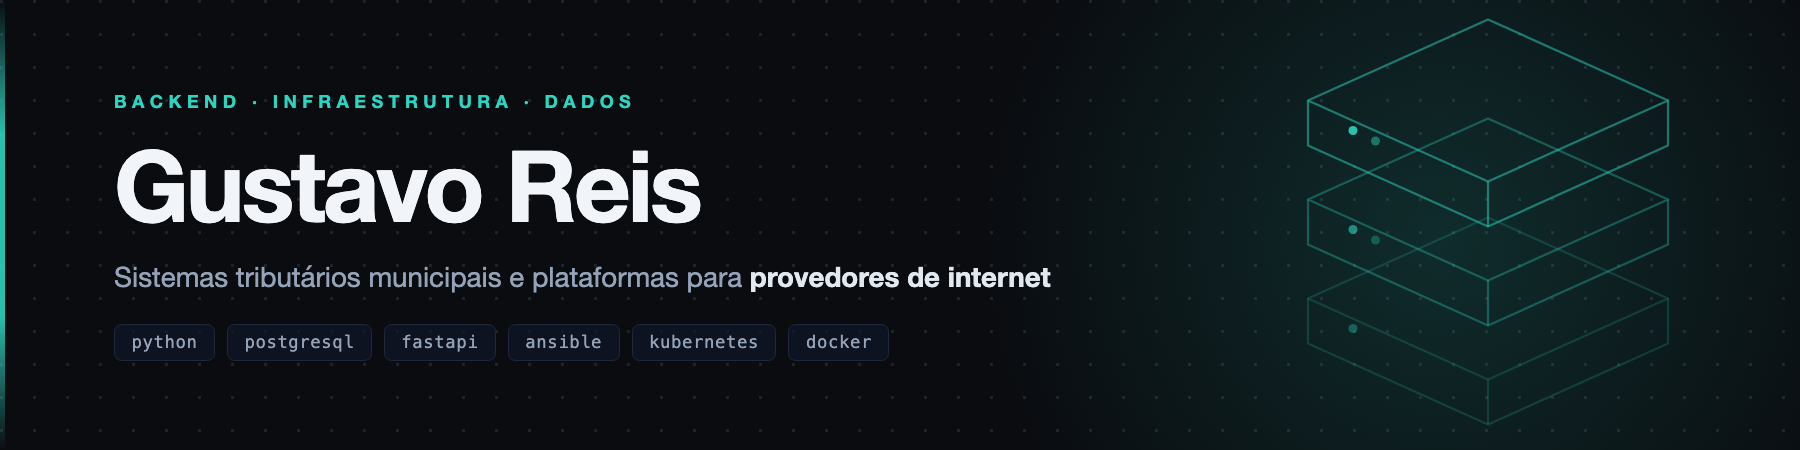
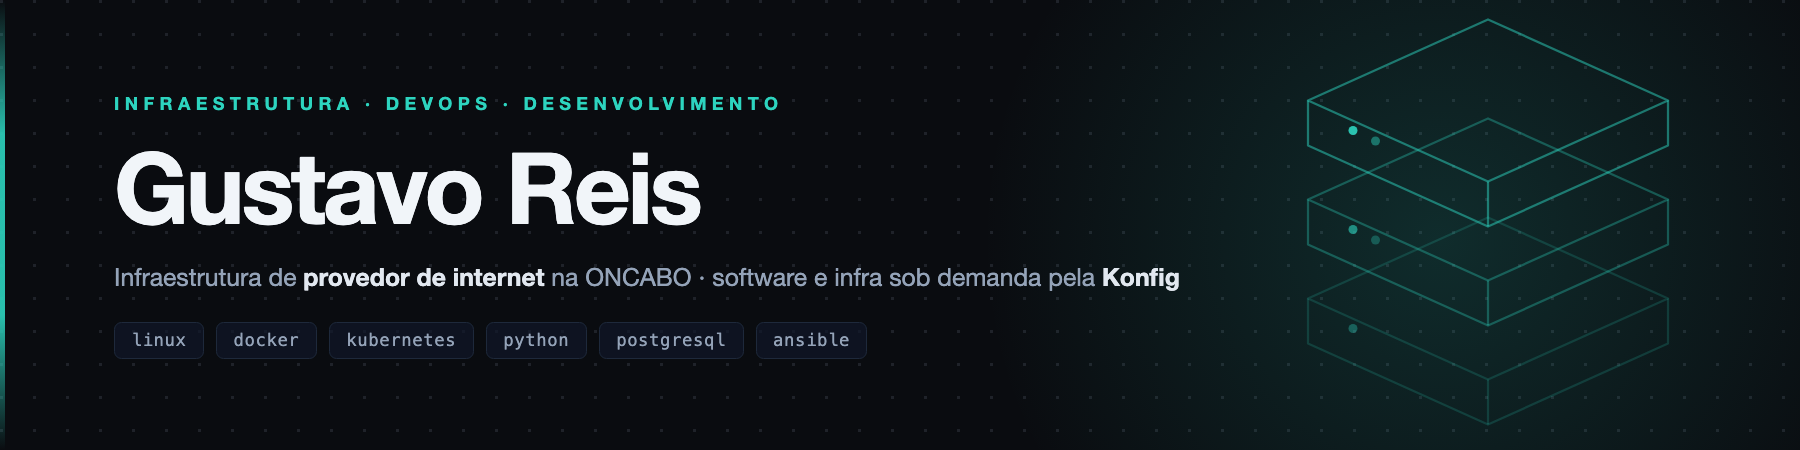
feat(profile): reposiciona o perfil em infraestrutura e desenvolvimento
Remove toda referência a sistemas tributários municipais do README, do
banner e do alt das imagens. O posicionamento passa a ser a operação de
infraestrutura de provedor na ONCABO e a prestação de serviço em infra e
software pela Konfig.

- banner: novo kicker (Infraestrutura · DevOps · Desenvolvimento), nova
  linha de papel e chips reordenados com infra na frente
- card de stack: infraestrutura, redes e bancos passam para a primeira
  coluna, que é a que se lê primeiro; linguagens e frameworks vão para a
  segunda
- README: seção "Atuação" separando infra, redes/telecom, desenvolvimento
  e IA aplicada
- adiciona cabeçalho animado (readme-typing-svg) na paleta do banner
- adiciona workflow da animação de contribuições (Platane/snk) publicando
  no branch output, com paleta alinhada ao banner

Claude-Session: https://claude.ai/code/session_015sPbKKPSyLFDWbtpW1hUQz

diff --git a/assets/banner.html b/assets/banner.html
@@ -17,7 +17,7 @@
   .content { position:absolute; left:76px; top:0; height:300px; display:flex; flex-direction:column; justify-content:center; z-index:3; }
   .kicker { font-size:12px; letter-spacing:3.6px; text-transform:uppercase; color:#2dd4bf; font-weight:600; margin-bottom:15px; }
   h1 { font-size:66px; font-weight:700; letter-spacing:-2.2px; line-height:1; }
-  .role { margin-top:17px; font-size:18.5px; color:#94a3b8; font-weight:400; }
+  .role { margin-top:17px; font-size:16.5px; color:#94a3b8; font-weight:400; }
   .role span { color:#e2e8f0; font-weight:600; }
   .stack { margin-top:20px; display:flex; gap:8px; }
   .chip { font-family:"SF Mono",Menlo,monospace; font-size:11.5px; color:#94a3b8;
@@ -54,11 +54,11 @@
     </g>
   </svg>
   <div class="content">
-    <div class="kicker">Backend · Infraestrutura · Dados</div>
+    <div class="kicker">Infraestrutura · DevOps · Desenvolvimento</div>
     <h1>Gustavo Reis</h1>
-    <div class="role">Sistemas tributários municipais e plataformas para <span>provedores de internet</span></div>
+    <div class="role">Infraestrutura de <span>provedor de internet</span> na ONCABO · software e infra sob demanda pela <span>Konfig</span></div>
     <div class="stack">
-      <span class="chip">python</span><span class="chip">postgresql</span><span class="chip">fastapi</span><span class="chip">ansible</span><span class="chip">kubernetes</span><span class="chip">docker</span>
+      <span class="chip">linux</span><span class="chip">docker</span><span class="chip">kubernetes</span><span class="chip">python</span><span class="chip">postgresql</span><span class="chip">ansible</span>
     </div>
   </div>
 </div>

diff --git a/assets/gen_stack.py b/assets/gen_stack.py
@@ -8,6 +8,27 @@ OUT = pathlib.Path(__file__).parent / "stack.html"
 # (slug, rótulo). slug None = sem logo, vira chip só de texto.
 COLS = [
     [
+        ("Infraestrutura", [
+            ("linux", "Linux"), ("debian", "Debian"), ("docker", "Docker"),
+            ("kubernetes", "Kubernetes"), ("rancher", "Rancher"), ("ansible", "Ansible"),
+            ("proxmox", "Proxmox"), ("vmware", "VMware"), ("nginx", "Nginx"),
+            ("traefikproxy", "Traefik"), ("cloudflare", "Cloudflare"), ("apachetomcat", "Tomcat"),
+        ]),
+        ("Redes, segurança e observabilidade", [
+            ("asterisk", "Asterisk"), ("pfsense", "pfSense"), ("mikrotik", "Mikrotik"),
+            ("wireguard", "WireGuard"), ("openvpn", "OpenVPN"), ("grafana", "Grafana"),
+            ("prometheus", "Prometheus"), ("sentry", "Sentry"),
+        ]),
+        ("Bancos de dados", [
+            ("postgresql", "PostgreSQL"), ("mysql", "MySQL"), ("mongodb", "MongoDB"),
+            ("redis", "Redis"), ("clickhouse", "ClickHouse"), ("sqlite", "SQLite"),
+        ]),
+        ("Ferramentas", [
+            ("git", "Git"), ("githubactions", "Actions"), ("precommit", "pre-commit"),
+            ("pytest", "pytest"), ("vitest", "Vitest"), ("postman", "Postman"),
+        ]),
+    ],
+    [
         ("Linguagens", [
             ("python", "Python"), ("typescript", "TypeScript"), ("javascript", "JavaScript"),
             ("csharp", "C#"), ("php", "PHP"), ("gnubash", "Bash"),
@@ -24,27 +45,6 @@ COLS = [
             ("tailwindcss", "Tailwind"), ("shadcnui", "shadcn/ui"), ("mui", "MUI"),
             ("reactquery", "TanStack"), ("reacthookform", "Hook Form"), ("zod", "Zod"),
             ("streamlit", "Streamlit"),
-        ]),
-    ],
-    [
-        ("Bancos de dados", [
-            ("postgresql", "PostgreSQL"), ("mysql", "MySQL"), ("mongodb", "MongoDB"),
-            ("redis", "Redis"), ("clickhouse", "ClickHouse"), ("sqlite", "SQLite"),
-        ]),
-        ("Infraestrutura", [
-            ("linux", "Linux"), ("debian", "Debian"), ("docker", "Docker"),
-            ("kubernetes", "Kubernetes"), ("rancher", "Rancher"), ("ansible", "Ansible"),
-            ("proxmox", "Proxmox"), ("vmware", "VMware"), ("nginx", "Nginx"),
-            ("traefikproxy", "Traefik"), ("cloudflare", "Cloudflare"), ("apachetomcat", "Tomcat"),
-        ]),
-        ("Redes, segurança e observabilidade", [
-            ("asterisk", "Asterisk"), ("pfsense", "pfSense"), ("mikrotik", "Mikrotik"),
-            ("wireguard", "WireGuard"), ("openvpn", "OpenVPN"), ("grafana", "Grafana"),
-            ("prometheus", "Prometheus"), ("sentry", "Sentry"),
-        ]),
-        ("Ferramentas", [
-            ("git", "Git"), ("githubactions", "Actions"), ("precommit", "pre-commit"),
-            ("pytest", "pytest"), ("vitest", "Vitest"), ("postman", "Postman"),
         ]),
     ],
 ]

diff --git a/README.md b/README.md
@@ -1,19 +1,25 @@
-<img src="assets/banner.png" alt="Gustavo Reis — Backend, Infraestrutura e Dados. Sistemas tributários municipais e plataformas para provedores de internet.">
+<img src="assets/banner.png" alt="Gustavo Reis — Infraestrutura, DevOps e Desenvolvimento. Infraestrutura de provedor de internet na ONCABO e software e infra sob demanda pela Konfig.">
 
-Vim de operações de rede (NOC/ISP) e migrei pra desenvolvimento sem largar a infra — escrevo a aplicação, modelo o banco e opero o servidor onde ela roda. Experiência em arrecadação municipal (ISS, NFS-e, IPTU e imobiliário, ITBI, dívida ativa, parcelamento, Simples Nacional e PGDAS) e em plataformas para ISP — provisionamento e diagnóstico de rede, telefonia, cobrança e integração com ERP.
+<a href="https://linkedin.com/in/gustsr"><img src="https://readme-typing-svg.demolab.com?font=IBM+Plex+Mono&weight=500&size=19&duration=3500&pause=1200&color=2DD4BF&vCenter=true&width=820&height=40&lines=Supervisor+de+NOC+em+provedor+de+internet;Do+rack+ao+deploy%3A+a+infra%2C+o+c%C3%B3digo+e+o+servidor+onde+ele+roda;Linux+%C2%B7+Docker+%C2%B7+Kubernetes+%C2%B7+Python" alt="Supervisor de NOC em provedor de internet · Do rack ao deploy: a infra, o código e o servidor onde ele roda · Linux, Docker, Kubernetes, Python"></a>
 
-<img src="assets/stack.png" alt="Stack: Python, TypeScript, JavaScript, C#, PHP, Bash, Java, Swift. FastAPI, Flask, ASP.NET, Laravel, Spring, Node.js, Fastify, SQLAlchemy, Celery, RabbitMQ, Socket.IO. React, Next.js, Vite, Bun, Tailwind, shadcn/ui, MUI, TanStack, React Hook Form, Zod, Streamlit. PostgreSQL, MySQL, MongoDB, Redis, ClickHouse, SQLite. Linux, Debian, Docker, Kubernetes, Rancher, Ansible, Proxmox, VMware, Nginx, Traefik, Cloudflare, Tomcat. Asterisk, pfSense, Mikrotik, WireGuard, OpenVPN, Grafana, Prometheus, Sentry. Git, GitHub Actions, pre-commit, pytest, Vitest, Postman.">
+Opero infraestrutura e escrevo o software que roda em cima dela.
+
+Sou Supervisor de Suporte e NOC na **ONCABO**, provedor de internet, onde respondo pela operação da rede — GPON, roteamento, autenticação, telefonia e monitoramento — e pelos painéis que a equipe usa para operar. Pela **Konfig** presto serviço em infraestrutura e desenvolvimento: administro Linux, subo container e virtualização, publico aplicação do domínio ao deploy e escrevo a aplicação em si, do banco à API.
+
+### Atuação
+
+**Infraestrutura** — Linux em produção, Docker e Kubernetes, virtualização em Proxmox e VMware, Nginx e Traefik como proxy reverso, DNS, SSL e Cloudflare, observabilidade com Grafana, Prometheus e Zabbix.
+
+**Redes e telecom** — rede de provedor: GPON e OLT, PPPoE/IPoE, roteamento, TR-069/GenieACS, SIP e Asterisk, diagnóstico e troubleshooting.
+
+**Desenvolvimento** — Python e FastAPI, TypeScript e Node, React e Next.js, PostgreSQL. Automação de processo, integração entre sistemas e ferramentas internas de operação.
+
+**IA aplicada** — integração de LLM em aplicação, agentes que executam tarefa, RAG sobre base própria e servidores MCP (Model Context Protocol).
+
+<img src="assets/stack.png" alt="Stack: Linux, Debian, Docker, Kubernetes, Rancher, Ansible, Proxmox, VMware, Nginx, Traefik, Cloudflare, Tomcat. Asterisk, pfSense, Mikrotik, WireGuard, OpenVPN, Grafana, Prometheus, Sentry. PostgreSQL, MySQL, MongoDB, Redis, ClickHouse, SQLite. Git, GitHub Actions, pre-commit, pytest, Vitest, Postman. Python, TypeScript, JavaScript, C#, PHP, Bash, Java, Swift. FastAPI, Flask, ASP.NET, Laravel, Spring, Node.js, Fastify, SQLAlchemy, Celery, RabbitMQ, Socket.IO. React, Next.js, Vite, Bun, Tailwind, shadcn/ui, MUI, TanStack, React Hook Form, Zod, Streamlit.">
 
 <details>
 <summary>Stack em texto</summary>
-
-**Linguagens** — Python · TypeScript · JavaScript · C# · SQL / PL-pgSQL · PHP · Bash · Java · Swift
-
-**Backend** — FastAPI · Flask · ASP.NET Core · Entity Framework Core · Laravel · Spring Boot · Node.js · Fastify · SQLAlchemy · Alembic · Pydantic · Celery · RabbitMQ · Socket.IO · APScheduler
-
-**Frontend** — React · Next.js · Vite · Bun · Tailwind CSS · shadcn/ui · MUI · TanStack Query · React Hook Form · Zod · Recharts · Streamlit
-
-**Bancos de dados** — PostgreSQL · MySQL · MongoDB · Redis · ClickHouse · SQLite. Modelagem, tuning, FDW, réplica, migração entre versões e auditoria de triggers e functions.
 
 **Infraestrutura** — Linux (Debian, Ubuntu, CentOS) · Docker e Compose · Kubernetes (RKE2, Rancher, MetalLB, Sealed Secrets) · Ansible · Proxmox · VMware ESXi · Coolify · Nginx · Traefik · Cloudflare · Windows Server (IIS, Apache, Tomcat, Samba, Active Directory)
 
@@ -23,8 +29,20 @@ Vim de operações de rede (NOC/ISP) e migrei pra desenvolvimento sem largar a i
 
 **Observabilidade** — Grafana · Prometheus · Loki e Promtail · GlitchTip / Sentry · Zabbix · cAdvisor e exporters
 
+**Bancos de dados** — PostgreSQL · MySQL · MongoDB · Redis · ClickHouse · SQLite. Modelagem, tuning, FDW, réplica, migração entre versões e auditoria de triggers e functions.
+
+**Linguagens** — Python · TypeScript · JavaScript · C# · SQL / PL-pgSQL · PHP · Bash · Java · Swift
+
+**Backend** — FastAPI · Flask · ASP.NET Core · Entity Framework Core · Laravel · Spring Boot · Node.js · Fastify · SQLAlchemy · Alembic · Pydantic · Celery · RabbitMQ · Socket.IO · APScheduler
+
+**Frontend** — React · Next.js · Vite · Bun · Tailwind CSS · shadcn/ui · MUI · TanStack Query · React Hook Form · Zod · Recharts · Streamlit
+
 **Ferramentas** — Git · GitHub Actions · CI/CD · pre-commit · pytest · Vitest · Postman · MCP (Model Context Protocol) · Jasper Reports · QuestPDF · WeasyPrint
 
 </details>
+
+### Atividade
+
+<img src="https://raw.githubusercontent.com/GustSR/GustSR/output/snake.svg" alt="Animação percorrendo o gráfico de contribuições de GustSR">
 
 [LinkedIn](https://linkedin.com/in/gustsr) &nbsp;·&nbsp; [gustavo.sil.reis@gmail.com](mailto:gustavo.sil.reis@gmail.com)
